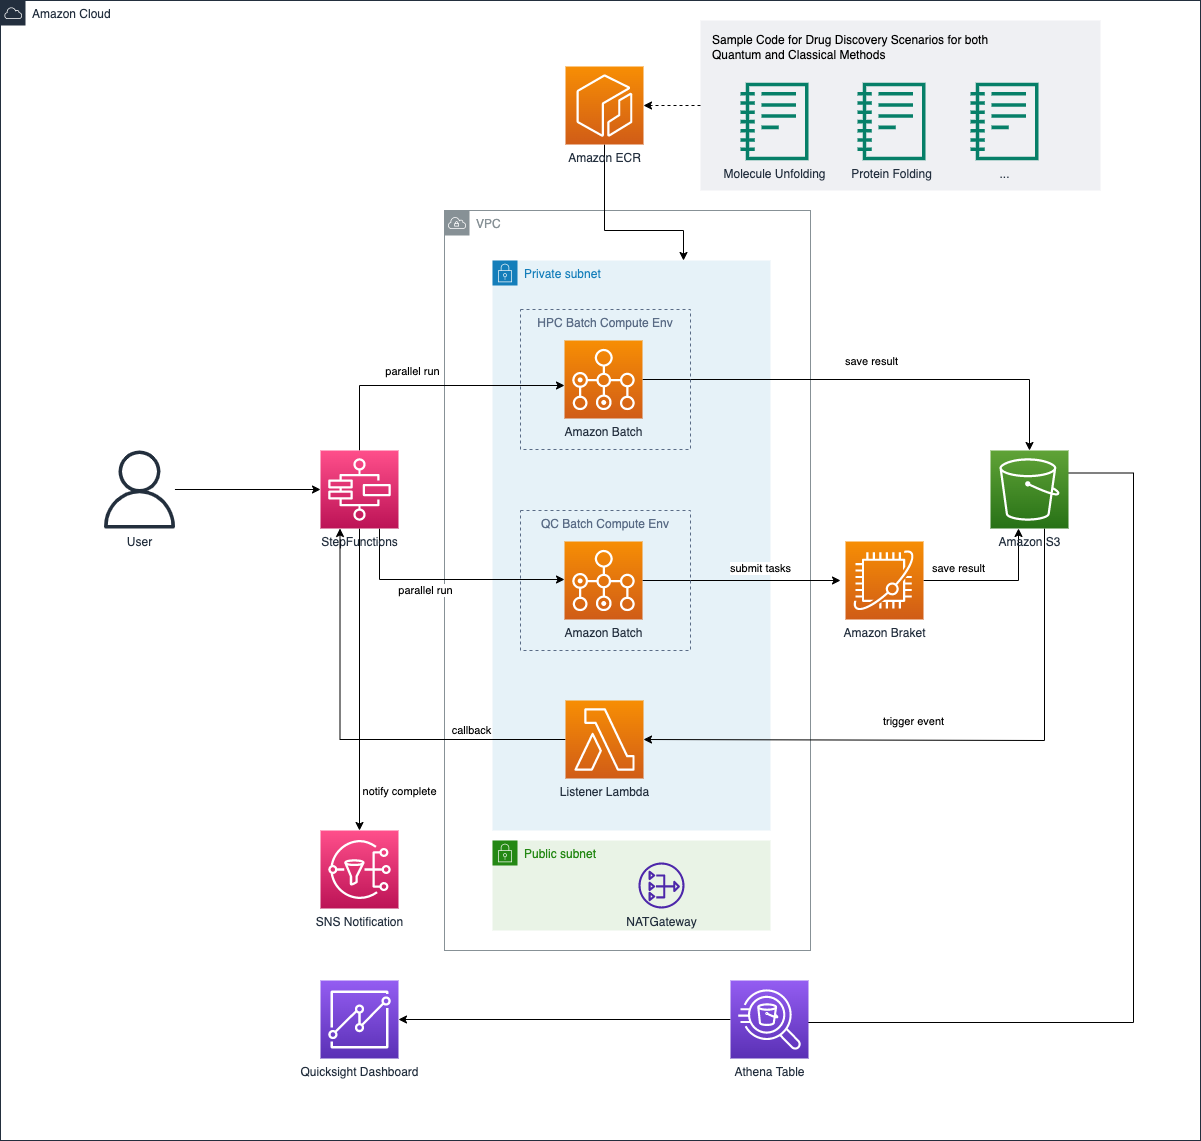
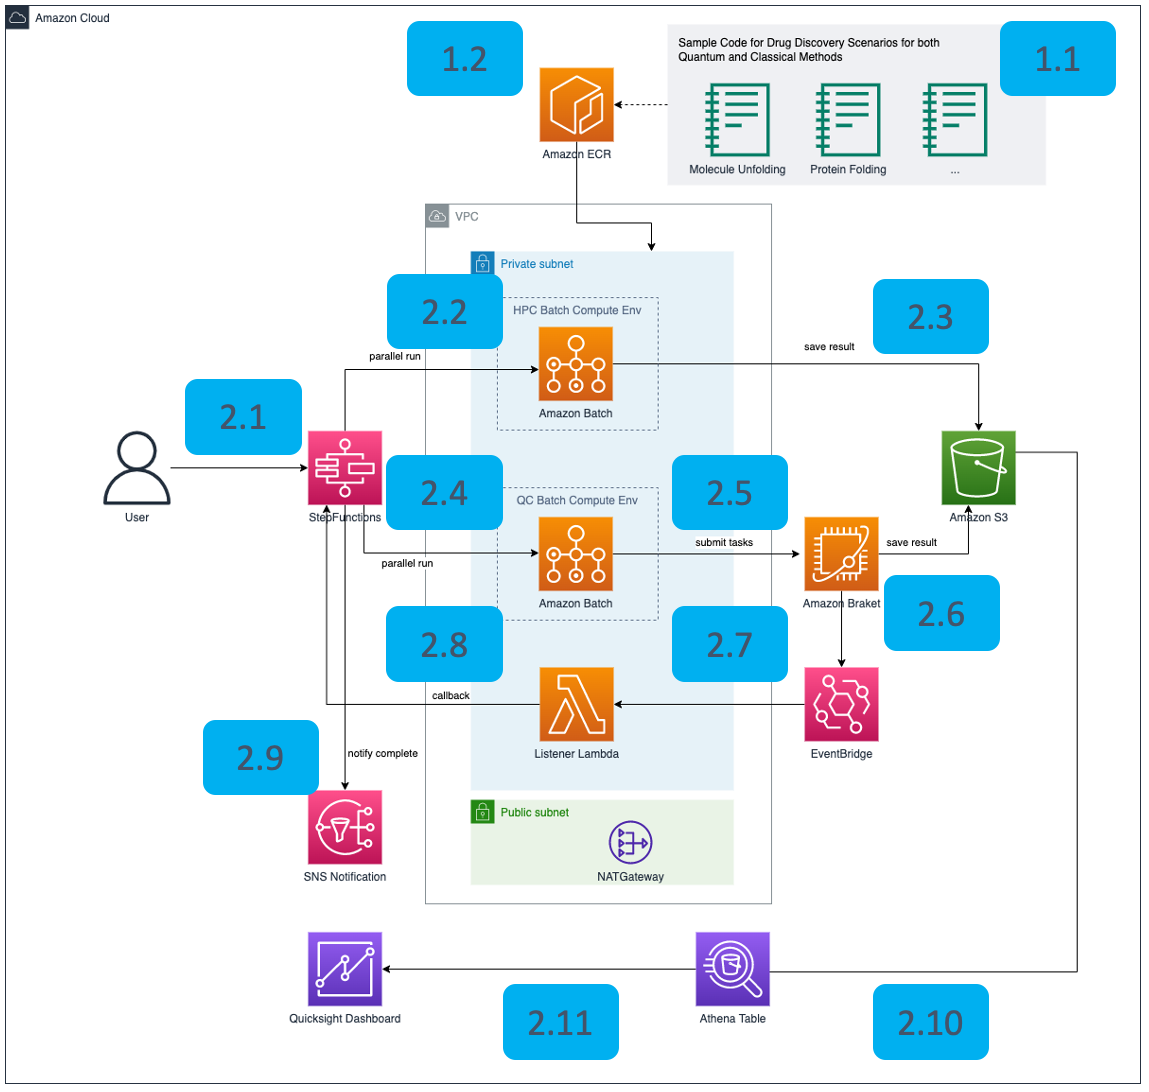
finish architecture en md

diff --git a/docs/en/architecture.md b/docs/en/architecture.md
@@ -1,9 +1,36 @@
 Deploying this solution with the default parameters builds the following environment in the AWS Cloud.
 
-![architecture](./images/arch.png)
-*Figure 1: XXX architecture*
+![architecture](./images/architecture.png)
+*Figure 1: The quantum ready solution for drug discovery architecture on AWS*
 
 This solution deploys the Amazon CloudFormation template in your AWS Cloud account and completes the following settings.
 
-1. 
-1. 
+The AWS CloudFormation template deploys the following workflows and service:
+
+- 1.Notebook Experiment 
+    - 1.1 The user deploys the solution solution into their AWS account and 
+    open the deployed [AWS SageMaker Notebook](https://docs.aws.amazon.com/sagemaker/latest/dg/nbi.html). The user can run and study sample 
+    codes for drug discovery, following the step-by-step guide in **ZAY workshop md**
+    - 1.2 When the user want to modify the default algorithms and update the 
+    images of [Amazon ECR](https://aws.amazon.com/ecr/) for the 
+    following batch test, they can find the step-by-step guide in **ZAY deployment md**
+- 2.Batch Test
+    - 2.1 The user can open the deployed [AWS Step Function](https://aws.amazon.com/step-functions/) for batch test the same problem 
+    in drug discovery using classical computers and quantum computers. 
+    - 2.2 The AWS Step Function launches various classical computing tasks through [AWS Batch](https://aws.amazon.com/batch/) jobs based on different resources 
+    ().
+    - 2.3 AWS Batch save results to [Amazon S3](https://aws.amazon.com/s3/).
+    - 2.4 At the same time as 2.2, AWS Step Function parallely launches various quantum computing tasks based on different quantum computing devices.
+    - 2.5 Each batch job asynchronously submits the quantum computing jobs/tasks 
+    through [Amazon Braket](https://aws.amazon.com/braket/)
+    - 2.6 When quantum computing jobs/tasks complete, the results are saved to 
+    Amazon S3. 
+    - 2.7 [Amazon EventBridge](https://aws.amazon.com/eventbridge/) triggers 
+    the lisener [AWS Lambda](https://aws.amazon.com/lambda/)
+    - 2.8 The lisener lambda sends a callback token to the step function
+    - 2.9 When all the steps complete, a SNS notification is send out by 
+    [Amazon SNS](https://aws.amazon.com/sns/).
+    - 2.10 The Athena table is created by [Amazon Athena](https://aws.amazon.com/athena/)
+     based on metrics data in Amazon S3.
+    - 2.11 The user can view the batch test results(e.g. cost, performance and time) 
+    through [Amazon QuickSight](https://aws.amazon.com/quicksight/)
